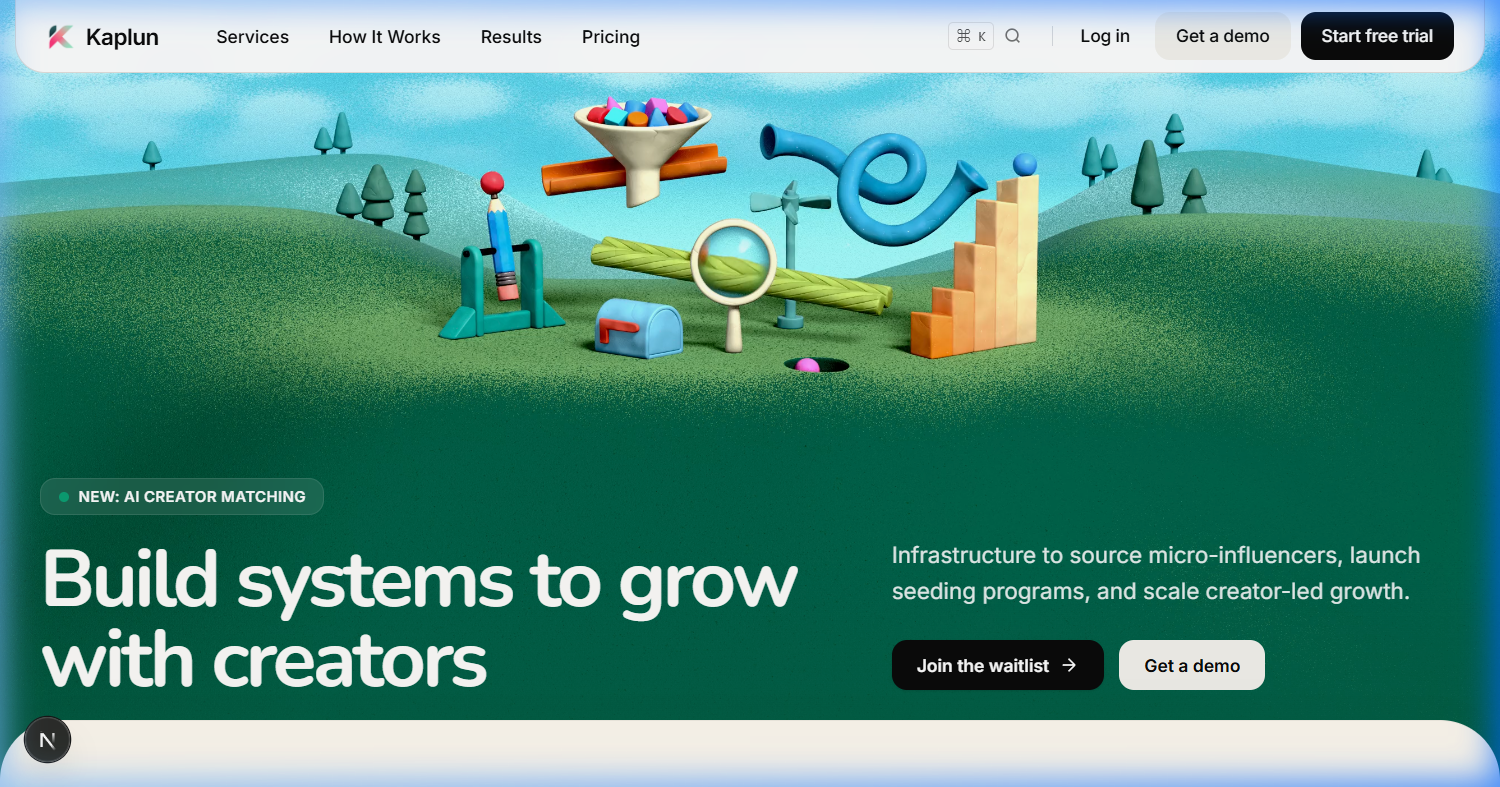
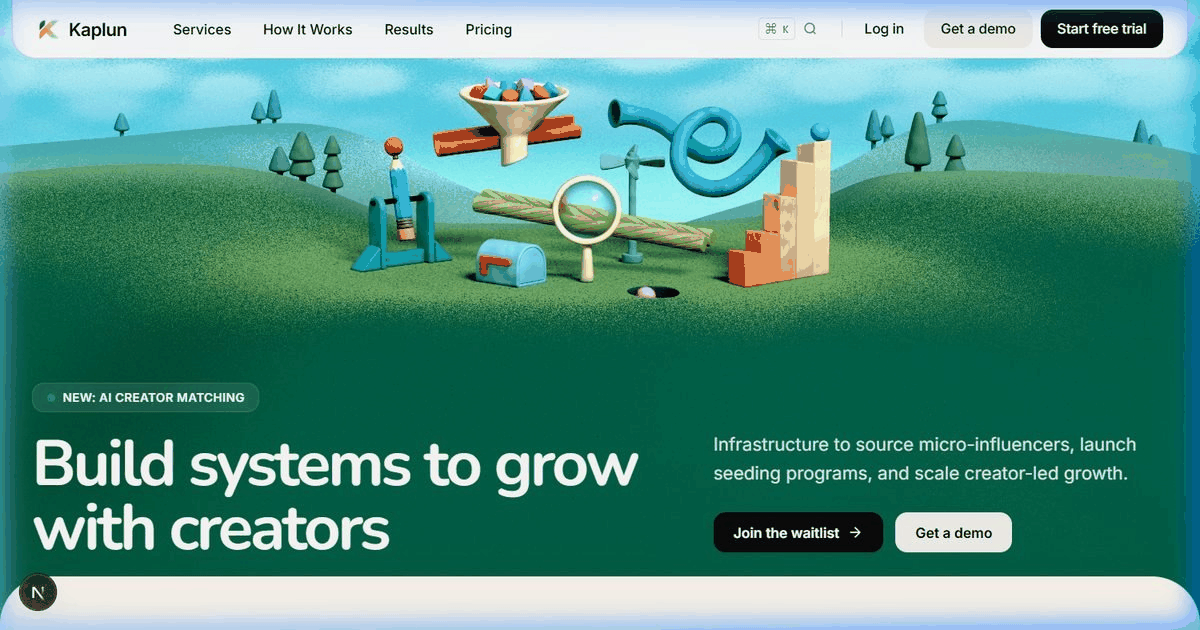
fix(seo): optimize social preview image formats (<200KB) and absolute URLs for WhatsApp, Instagram, FB & Twitter

diff --git a/app/layout.tsx b/app/layout.tsx
@@ -61,9 +61,19 @@ export const metadata: Metadata = {
     siteName: "Kaplun",
     images: [
       {
-        url: "/og-image.png",
+        url: "https://kaplun.tech/og-image.jpg",
+        secureUrl: "https://kaplun.tech/og-image.jpg",
         width: 1200,
         height: 630,
+        type: "image/jpeg",
+        alt: "Kaplun — Build systems to grow with creators",
+      },
+      {
+        url: "https://kaplun.tech/og-image.png",
+        secureUrl: "https://kaplun.tech/og-image.png",
+        width: 1200,
+        height: 630,
+        type: "image/png",
         alt: "Kaplun — Build systems to grow with creators",
       },
     ],
@@ -75,8 +85,16 @@ export const metadata: Metadata = {
     title: "Kaplun — Build systems to grow with creators",
     description:
       "Infrastructure to source micro-influencers, launch seeding programs, and scale creator-led growth.",
-    images: ["/twitter-image.png"],
+    images: [
+      {
+        url: "https://kaplun.tech/twitter-image.jpg",
+        alt: "Kaplun — Build systems to grow with creators",
+        width: 1200,
+        height: 630,
+      },
+    ],
     creator: "@kapluntech",
+    site: "@kapluntech",
   },
   robots: {
     index: true,